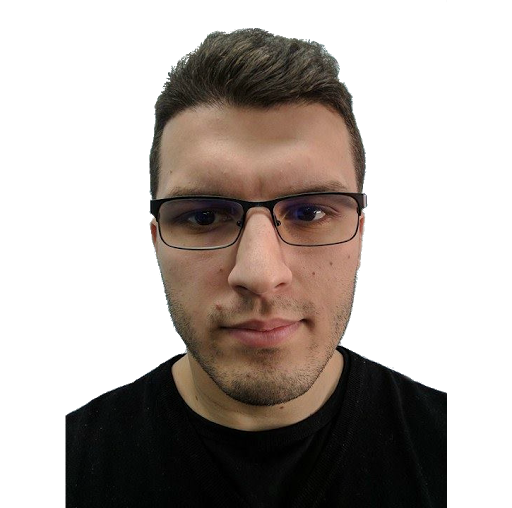
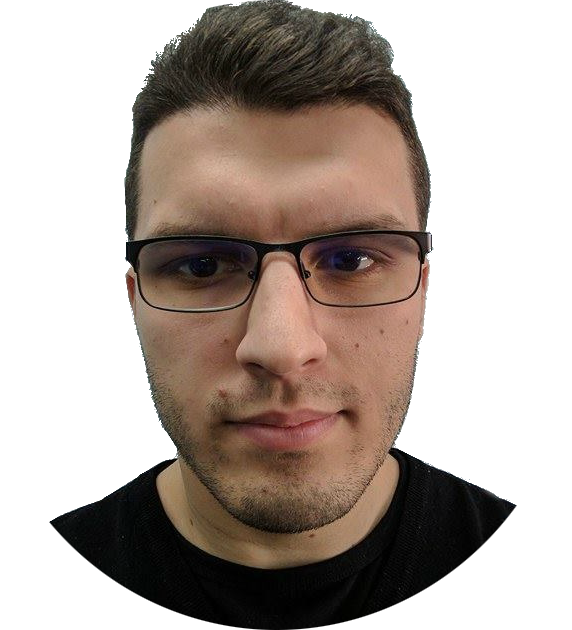
CSS changes and personal picture cropped

diff --git a/_sass/about.scss b/_sass/about.scss
@@ -49,12 +49,13 @@
             @media only screen and (max-width : 480px) {
                 transform: translateY(-490px);
                 width: 90%;
-                margin-left: 30px;
+                margin-left: 60px;    
+                margin-top: 60px;     
             }
             /* Extra Small Devices, Phones */
             @media only screen and (max-width : 375px) {
                 transform: translateY(-540px);
-                margin-left: 20px;
+                margin-left: 40px;
             }
         }
 
@@ -82,12 +83,12 @@
             }
             /* Extra Small Devices, Phones */
             @media only screen and (max-width : 480px) {
-                transform: translateY(445px);
+                transform: translateY(200px);
                 width: 100%;
-                margin: 0 auto;
-                text-align: center;
+                margin: 0 auto;           
+                text-align: center;   
                 p {
-                    text-align: left;
+                    text-align: justify;
                     margin: 0 20px;
                 }
             }

diff --git a/_sass/work.scss b/_sass/work.scss
@@ -131,6 +131,7 @@
             padding: 0 20px;
             margin-bottom: 20px;
             line-height: 1.5em;
+            text-align: justify;
           }
 
           .content-card-skills-list {
